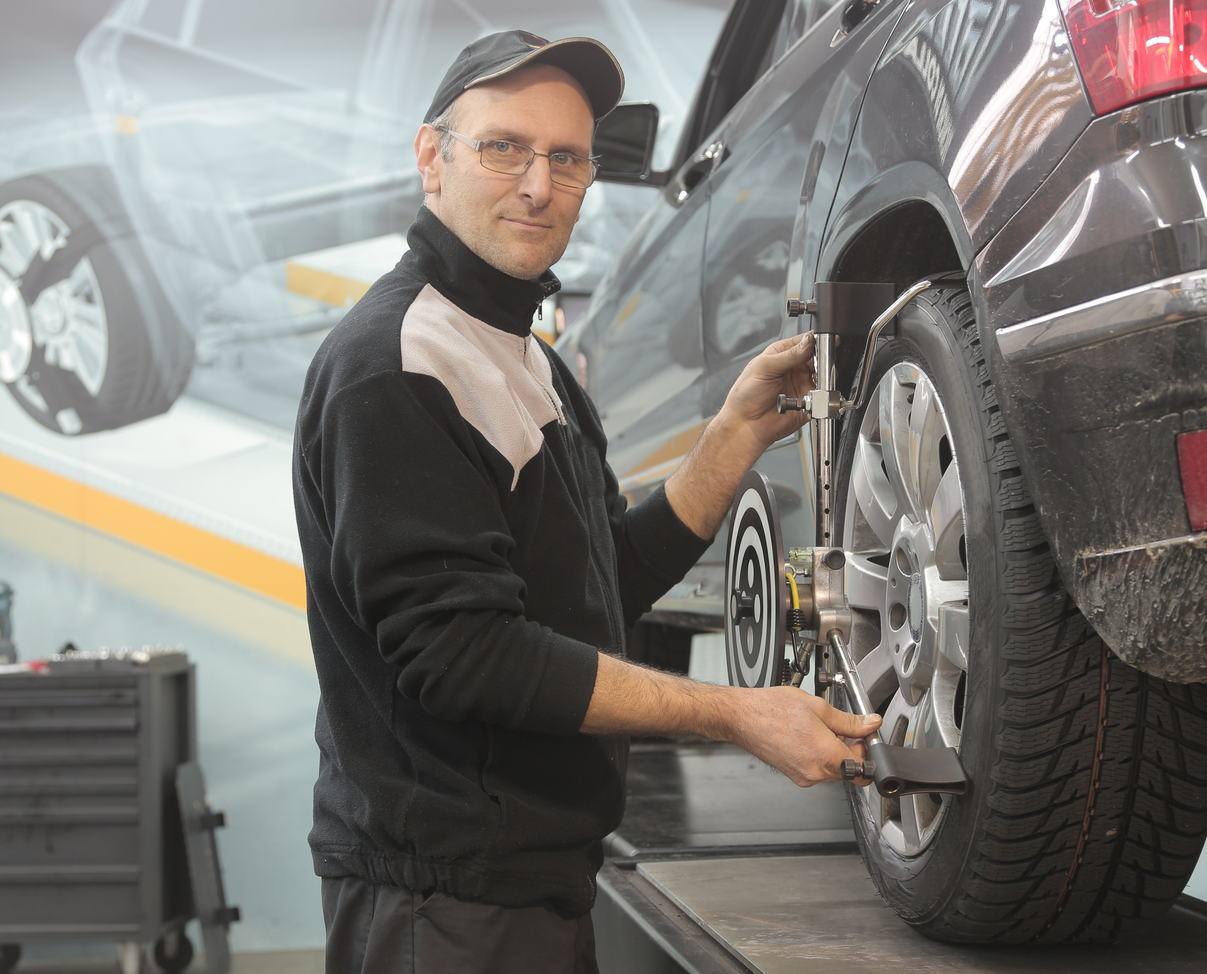
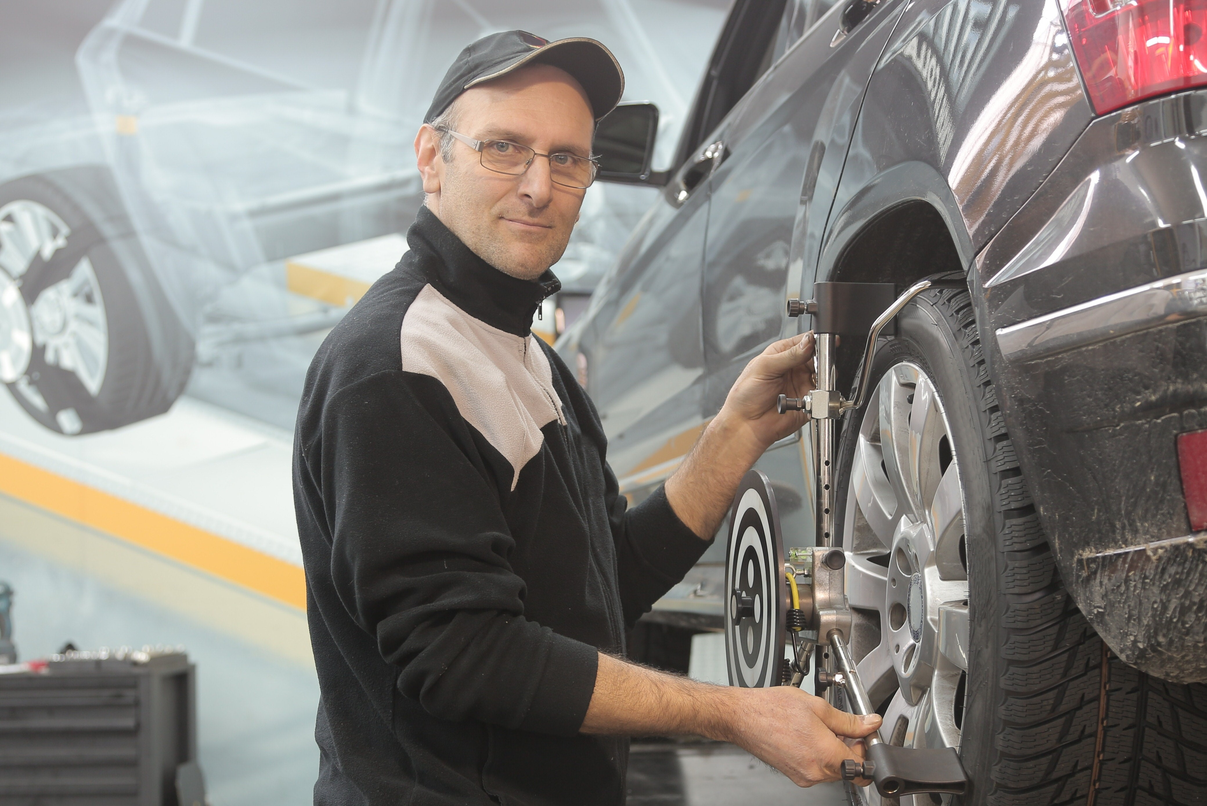
image-size
image size fixed.

diff --git a/services.html b/services.html
@@ -121,7 +121,7 @@
 						<div class="isotope-item col-md-4 col-sm-6">
 							<div class="vertical-item text-center">
 								<div class="item-media">
-									<img src="images/gallery/17.jpg" alt="">
+									<img src="images/gallery/17.jpg" alt="" height="100">
 								</div>
 								<div class="item-content">
 									<h4 class="entry-title bottommargin_15">
